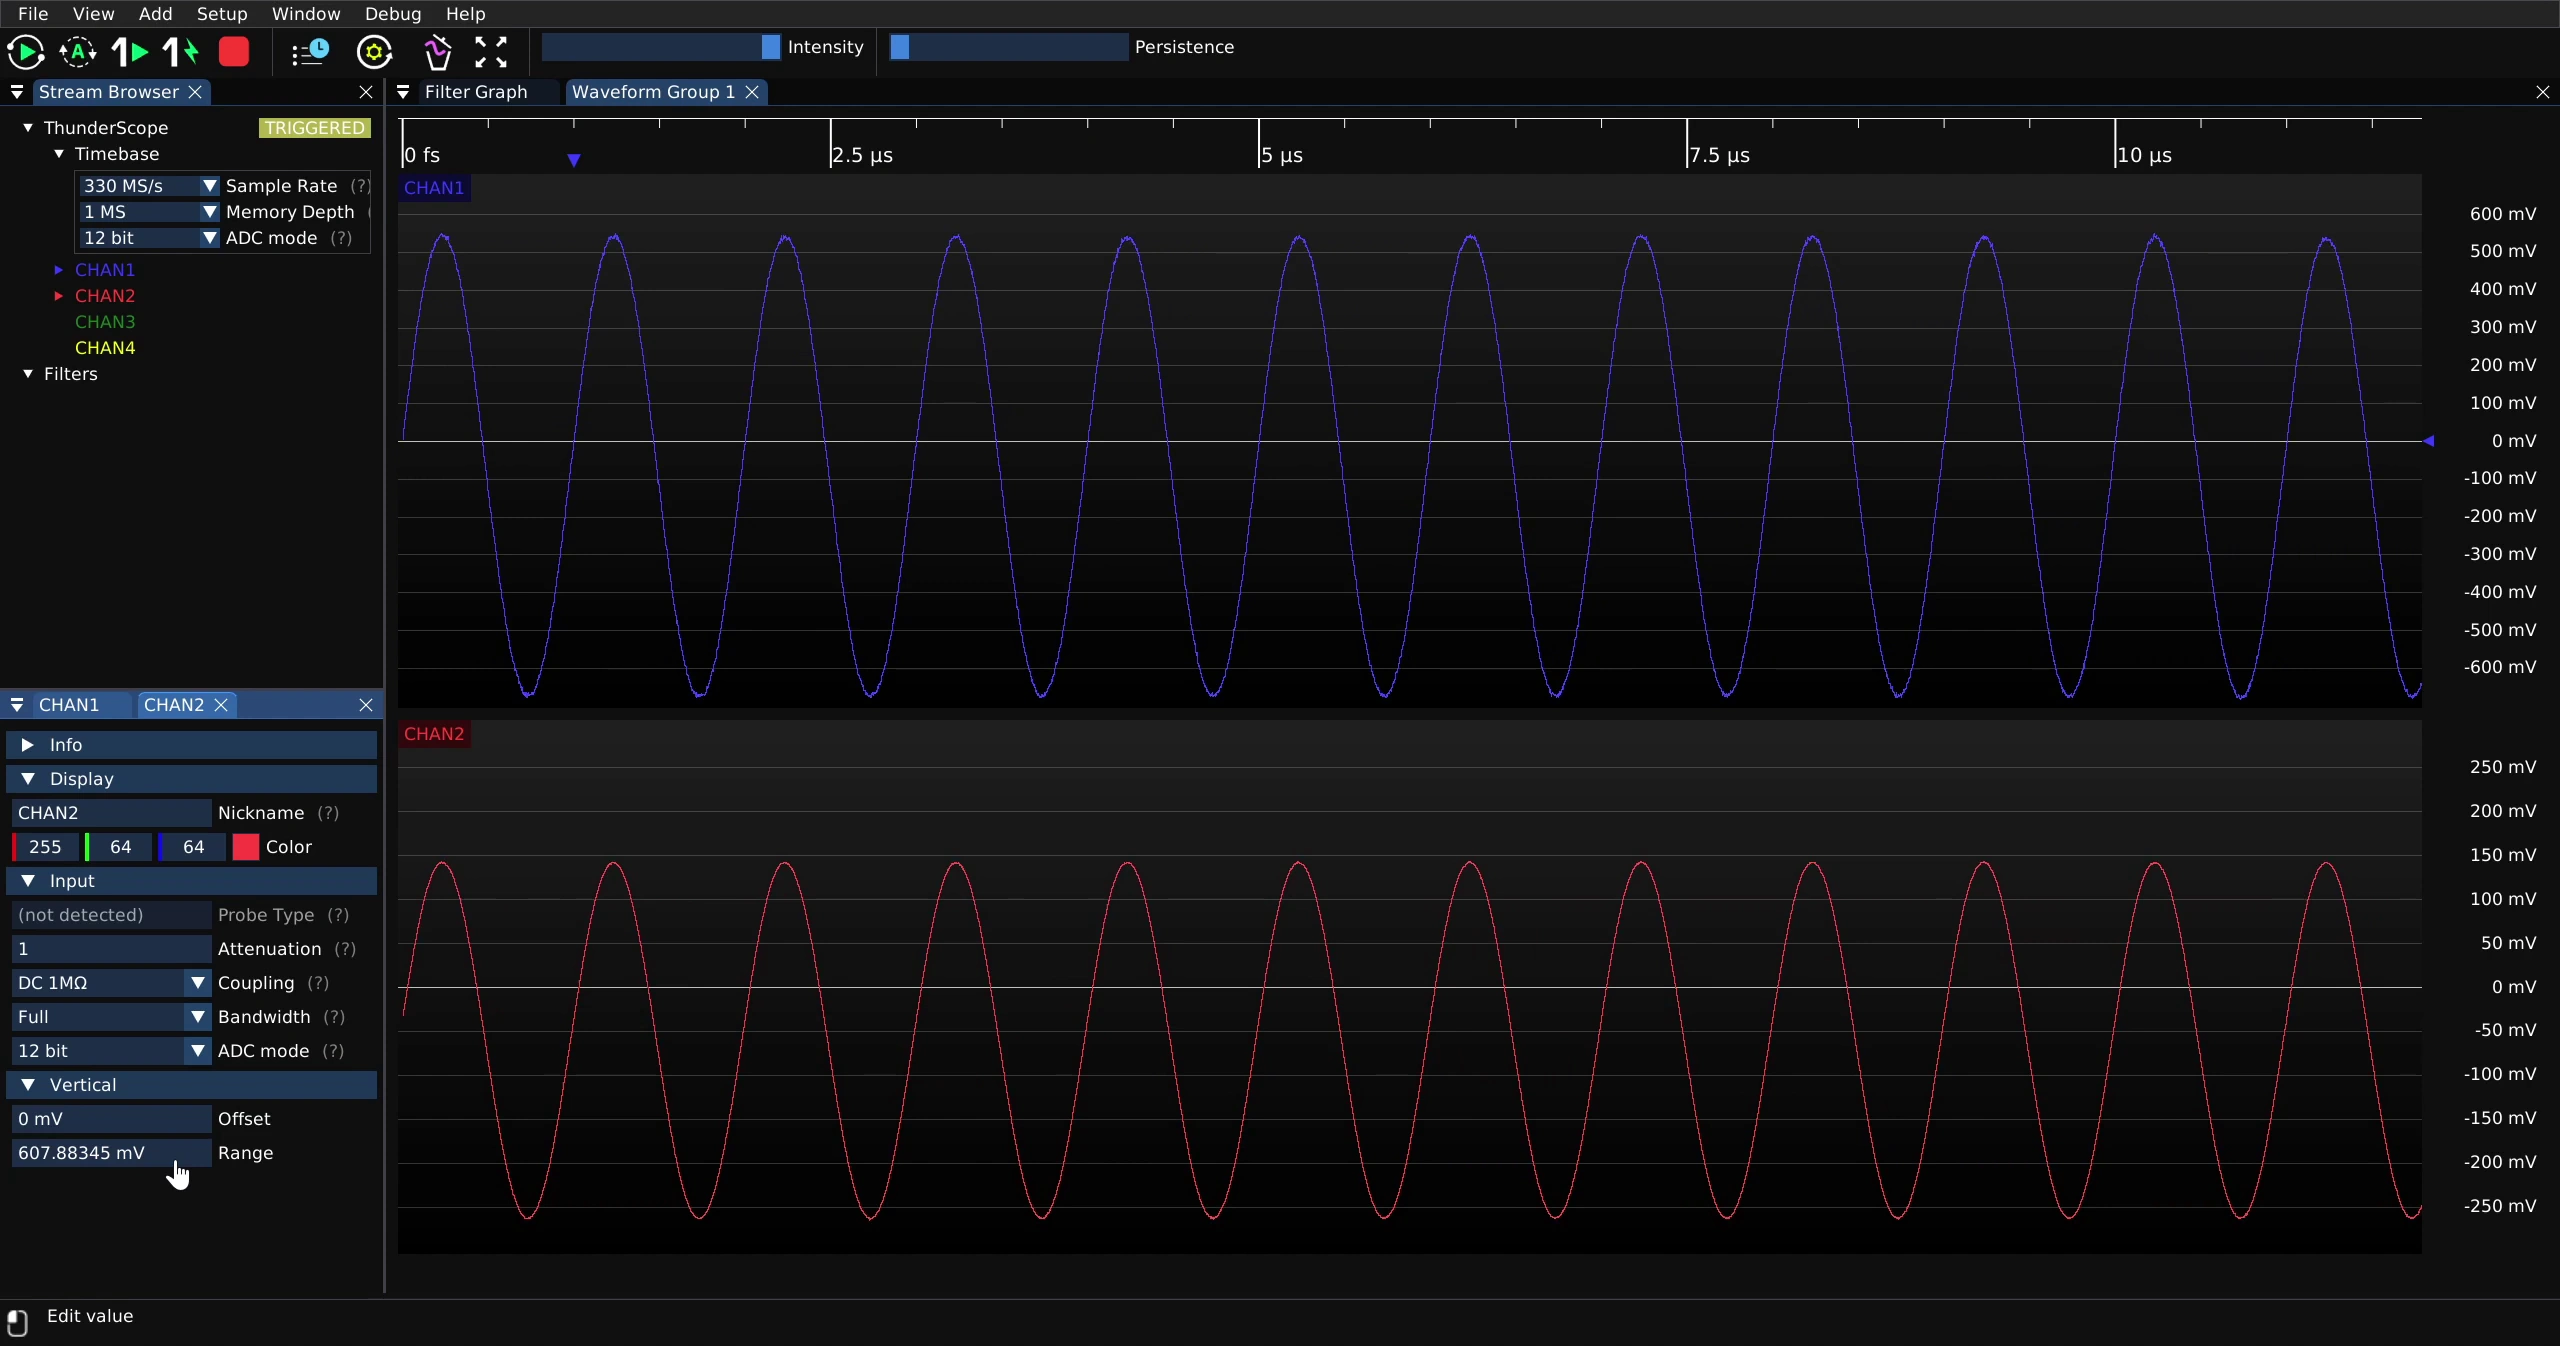
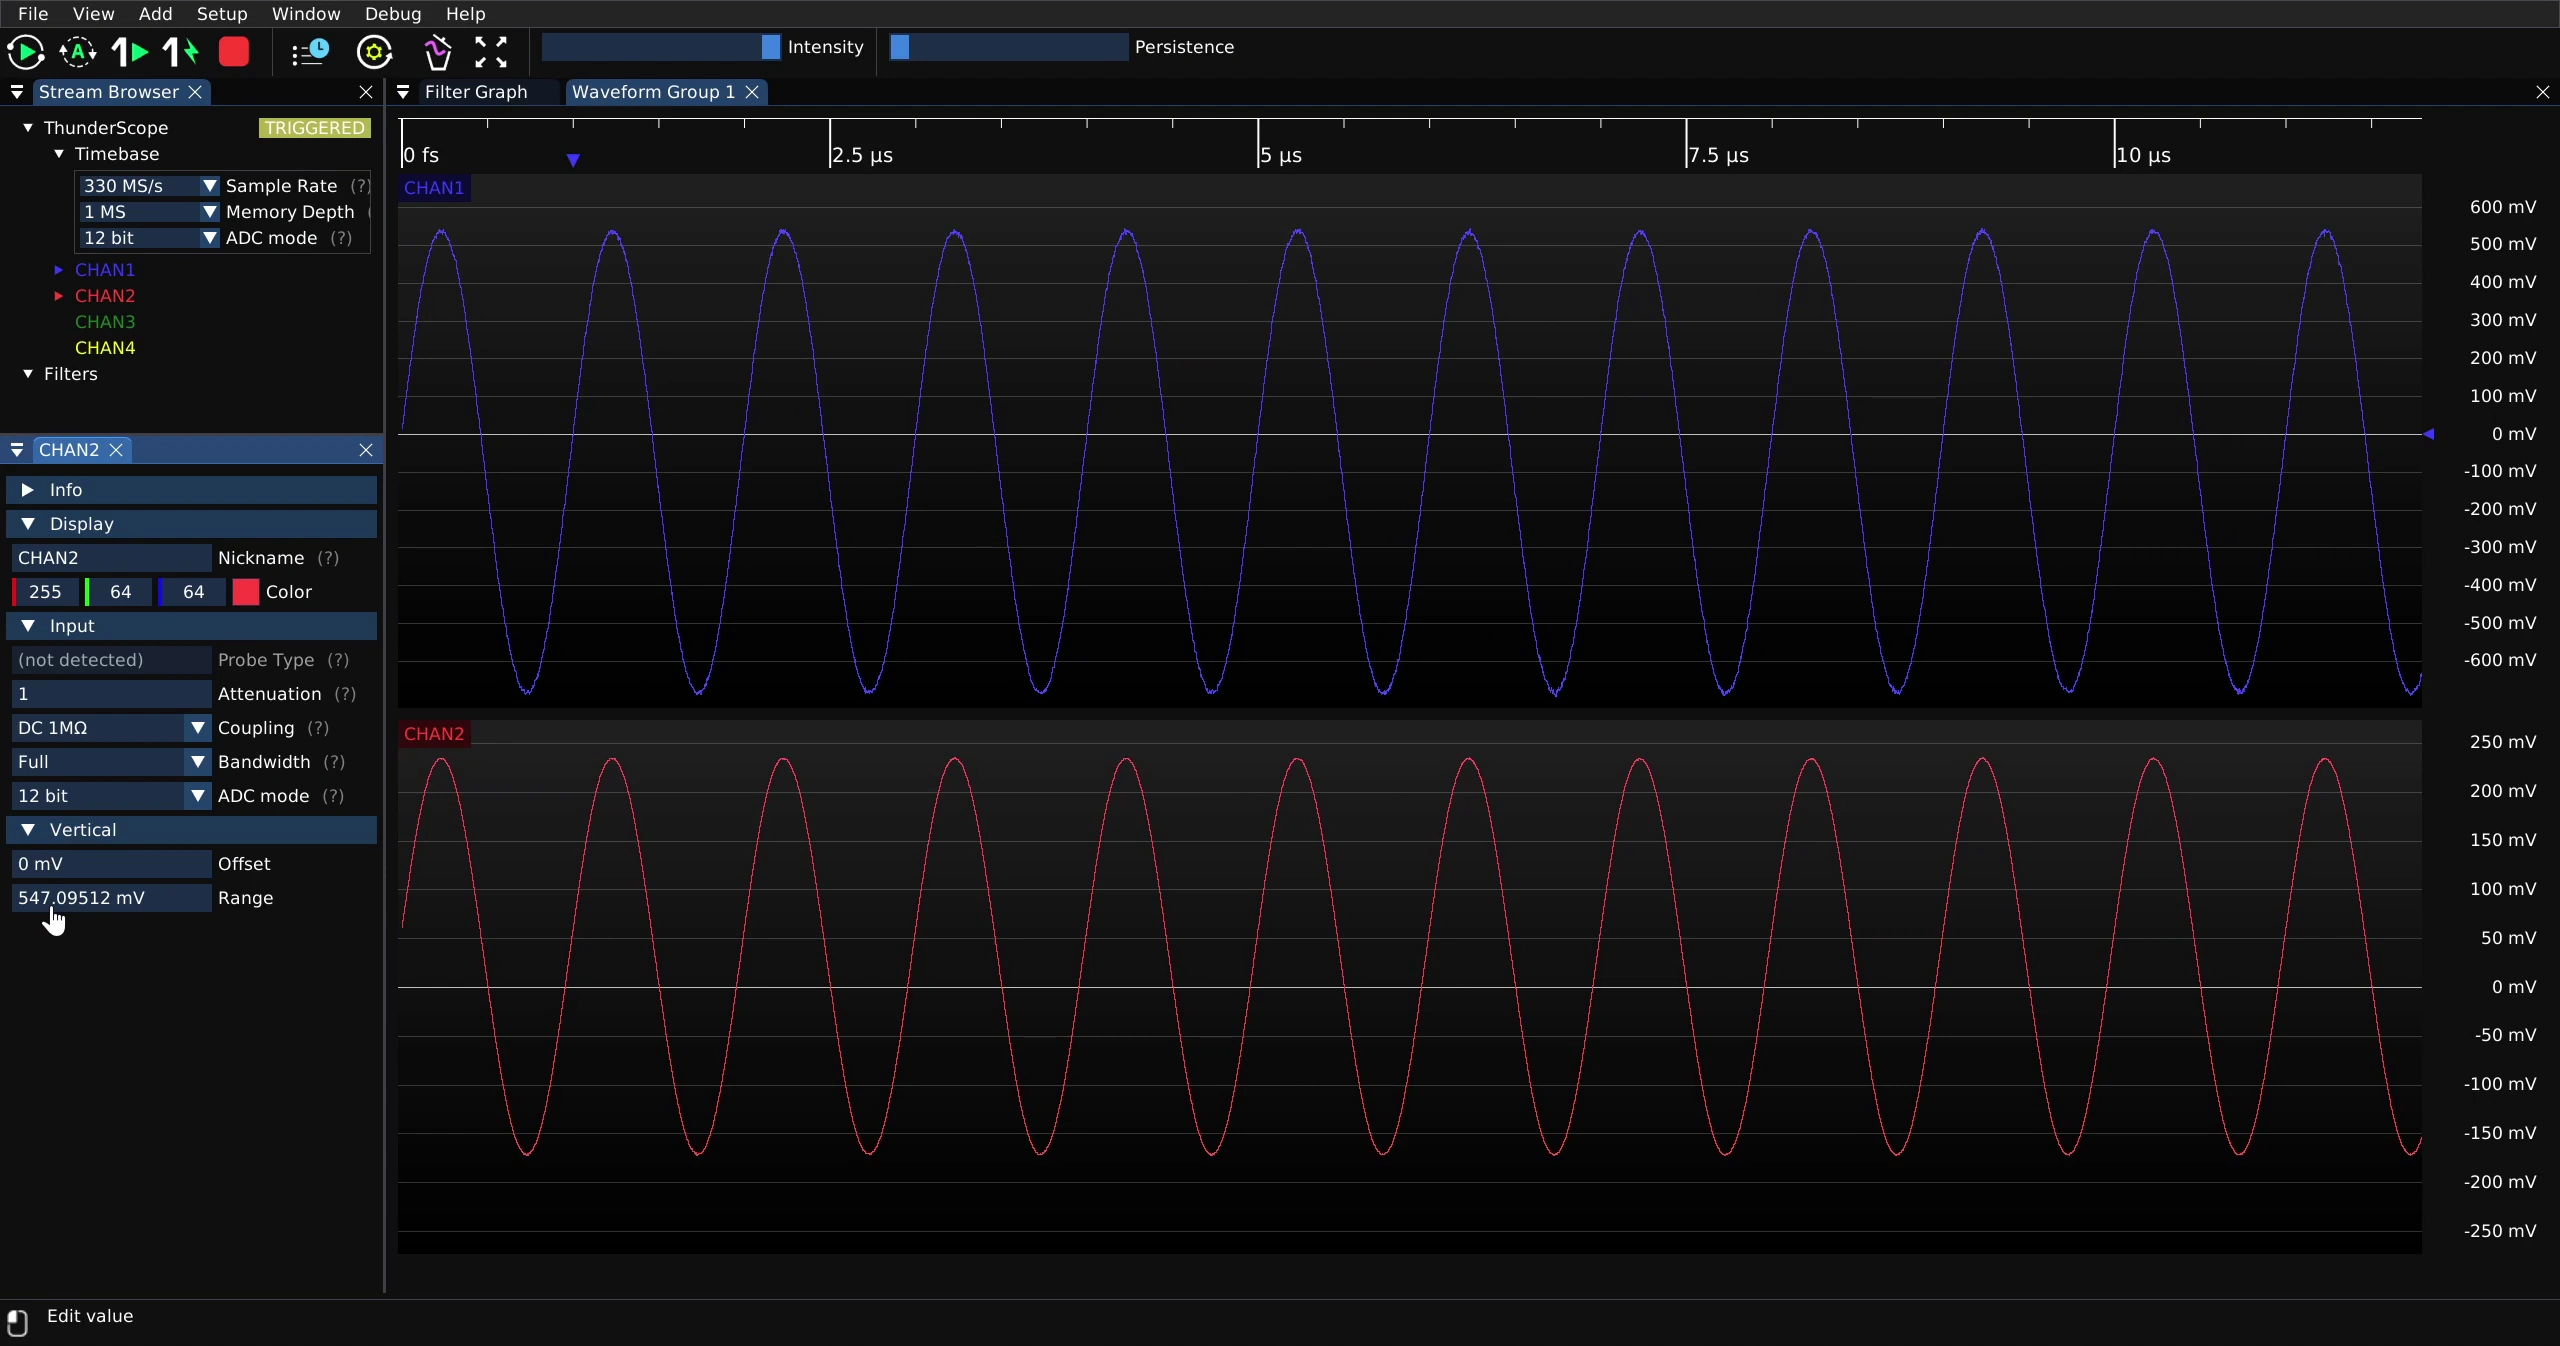
Finished channel controls page

diff --git a/Docs/manual/src/Using-ThunderScope/Channel-Controls.rst b/Docs/manual/src/Using-ThunderScope/Channel-Controls.rst
@@ -53,7 +53,10 @@ With waveform views, channels can always have the best vertical scale and offset
 without sacrificing the readability of the signals. On benchtop scopes, some signal information is often lost when adjusting 
 the channels to fit legibly on one view.
 
-.. image:: ./_images/ngscopeclient-separate-vertical-scales.webp
+.. image:: ./_images/ngscopeclient-vertical-scale-waveform-view-mouse-over.webp
+    :alt: TODO
+
+.. image:: ./_images/ngscopeclient-vertical-waveform-view-scale-changed.webp
     :alt: TODO
 
 If an exact vertical scale is needed on a channel, it can be entered numerically on that channel's "Range" setting under the "Vertical" tab in that channel's properties
@@ -66,33 +69,109 @@ If an exact vertical scale is needed on a channel, it can be entered numerically
 
 After entering the value, click "Apply" to apply the change in vertical scale
 
-.. image:: ./_images/ngscopeclient-channel-menu--range-apply.webp
+.. image:: ./_images/ngscopeclient-channel-menu-range-apply.webp
     :alt: TODO
 
-.. image:: ./_images/ngscopeclient-channel-menu--range-applied.webp
+.. image:: ./_images/ngscopeclient-channel-menu-range-applied.webp
     :alt: TODO
 
 Vertical Offset
 ---------------
 
-TODO
+To change the vertical offset for a waveform view, click on the vertical scale of the waveform view and scroll up or down for higher or lower vertical scales.
+This will change the vertical scale for all channels in that waveform view.
+
+.. image:: ./_images/ngscopeclient-vertical-offscale-mouse-over.webp
+    :alt: TODO
+
+.. image:: ./_images/ngscopeclient-vertical-offset-changed.webp
+    :alt: TODO
+
+If the channels need to have separate offsets, place them in separate waveform views. 
+
+.. image:: ./_images/ngscopeclient-vertical-offscale-waveform-view-mouse-over.webp
+    :alt: TODO
+
+.. image:: ./_images/ngscopeclient-vertical-waveform-view-offset-changed.webp
+    :alt: TODO
+
+If an exact vertical scale is needed on a channel, it can be entered numerically on that channel's "Offset" setting under the "Vertical" tab in that channel's properties
+
+.. image:: ./_images/ngscopeclient-channel-menu-vertical.webp
+    :alt: TODO
+
+.. image:: ./_images/ngscopeclient-channel-menu-offset.webp
+    :alt: TODO
+
+After entering the value, click "Apply" to apply the change in vertical offset
+
+.. image:: ./_images/ngscopeclient-channel-menu-offset-apply.webp
+    :alt: TODO
+
+.. image:: ./_images/ngscopeclient-channel-menu-offset-applied.webp
+    :alt: TODO
 
 Termination and Coupling
 ------------------------
 
-TODO
+Click on the down arrow next to "Coupling" on the channel property menu and select the desired coupling setting from the drop-down menu
+
+.. image:: ./_images/ngscopeclient-channel-menu-coupling-1.webp
+    :alt: TODO
+.. image:: ./_images/ngscopeclient-channel-menu-coupling-2.webp
+    :alt: TODO
+.. image:: ./_images/ngscopeclient-channel-menu-coupling-3.webp
+    :alt: TODO
+
+This menu also holds the termination options for the channel
+
+.. image:: ./_images/ngscopeclient-channel-menu-termination-1.webp
+    :alt: TODO
+.. image:: ./_images/ngscopeclient-channel-menu-termination-2.webp
+    :alt: TODO
 
 Attenuation
 -----------
 
-TODO
+To set an attenuation factor, enter a value into the "Attenuation" field in the channel property menu.
+
+.. image:: ./_images/ngscopeclient-channel-attenuation.webp
+    :alt: TODO
+
+This will change the displayed scale to reflect the attenuation factor. 
+The internal state of the ThunderScope is not changed, this is just a scaling factor on the data.
+This is useful for making measurements with probes, where there is often an attenuation associated with the probe. 
+
+.. image:: ./_images/ngscopeclient-channel-attenuation-changed.webp
+    :alt: TODO
 
 Channel Nickname
 ----------------
 
-TODO
+To set an channel nickname, enter the desired nickname into the "Nickname" field in the channel property menu.
+
+.. image:: ./_images/ngscopeclient-channel-nickname.webp
+    :alt: TODO
+
+This will change the channel label to the entered nickname
+
+.. image:: ./_images/ngscopeclient-channel-nickname-changed.webp
+    :alt: TODO
 
 Channel Color
 -------------
 
-TODO
+Mouse over the channel color in the channel property menu to show information on the existing color of the channel
+
+.. image:: ./_images/ngscopeclient-channel-color-1.webp
+    :alt: TODO
+
+Click on the color to show the color picker
+
+.. image:: ./_images/ngscopeclient-channel-color-2.webp
+    :alt: TODO
+
+Now select the desired color for the channel
+
+.. image:: ./_images/ngscopeclient-channel-color-3.webp
+    :alt: TODO
